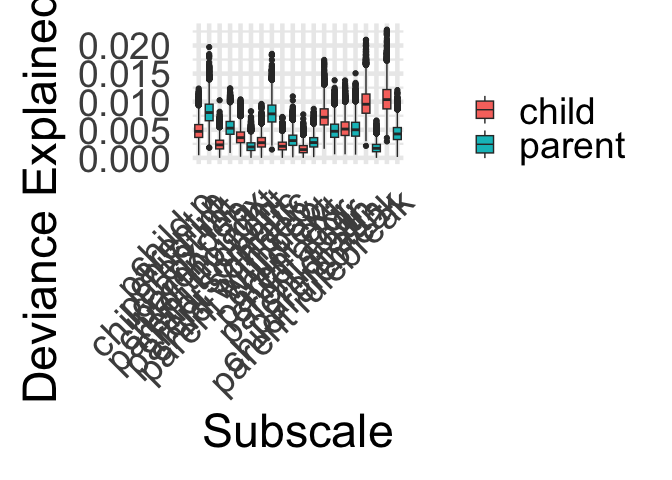
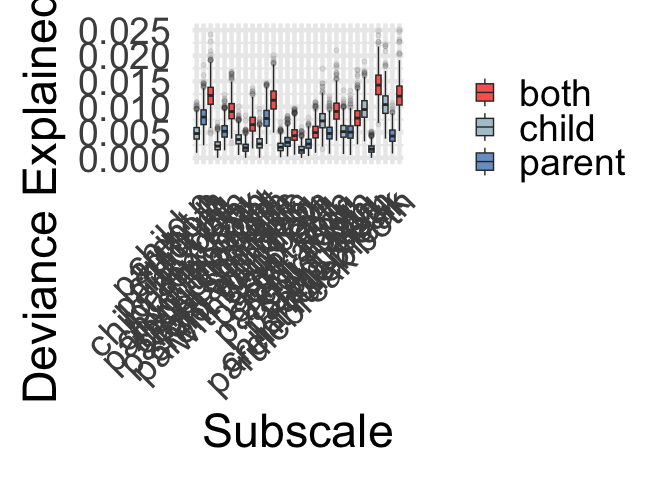
viz updates

diff --git a/Figures/code/Fig2.md b/Figures/code/Fig2.md
@@ -932,14 +932,17 @@ ggplot(df_tidy_merged, aes(x = Subscale, y = MedianValue,fill=MedianIteration,ou
 ``` r
 library(dplyr)
 # supplemental figure 2
-PvC_de=readRDS('~/Desktop/g_p/PvC_gdevExplBoots.rds')
+PvC_de=readRDS('~/Desktop/g_p/PvC_gdevExplBoots1k.rds')
+
+# for 1k version
+PvC_de=PvC_de[1:1000,]
 
 # rename columns for plotting
 new_colnames <- c("child p", "child int.", "child ext.", "child somatic", "child anxdep.", "child thought", "child withdep.", 
                   "child social", "child attn.", "child rulebreak", "child aggr.", "parent p", "parent int.", 
                   "parent ext.", "parent somatic", "parent anx", "parent thought", "parent withdep.", 
-                  "parent attn.", "parent rulebreak", "parent aggr.")
-desiredOrder <- c("child p", "parent p","child int.", "parent int.","child anxdep.","parent anx","child thought", "parent thought", "child somatic","parent somatic",  "child withdep.", "parent withdep.","child ext.", "parent ext.", "child aggr.", "parent aggr.", "child attn.", "parent attn.","child rulebreak","parent rulebreak","child social")
+                  "parent attn.", "parent rulebreak", "parent aggr.","p both","int. both", "ext. both","somatic both","anx both","thought both","withdep both","attn. both","rulebreak both","aggr. both")
+desiredOrder <- c("child p", "parent p","p both","child int.", "parent int.","int. both","child anxdep.","parent anx","anx both","child thought", "parent thought","thought both", "child somatic","parent somatic", "somatic both", "child withdep.", "parent withdep.","withdep both","child ext.", "parent ext.", "ext. both","child aggr.", "parent aggr.", "aggr. both","child attn.", "parent attn.","attn. both","child rulebreak","parent rulebreak","rulebreak both","child social")
 
 # set col names
 colnames(PvC_de)<-new_colnames
@@ -954,7 +957,9 @@ PvC_long=melt(PvC_de)
 # rename for clarity
 colnames(PvC_long)<-c("Subscale","value")
 # grouping variable for color
-PvC_long$Group <- ifelse(grepl("child", PvC_long$Subscale), "child", "parent")
+PvC_long$Group <- ifelse(grepl("child", PvC_long$Subscale), "child",
+                         ifelse(grepl("parent", PvC_long$Subscale), "parent",
+                                ifelse(grepl("both", PvC_long$Subscale), "both", NA)))
 # order as desired
 PvC_long$Subscale <- factor(PvC_long$Subscale, levels = desiredOrder)
 
@@ -963,11 +968,15 @@ PvC_long <- PvC_long %>%
 
 # Create the boxplot
 ggplot(PvC_long, aes(x = Subscale, y = value,fill=Group)) +
-  geom_boxplot() +
+  geom_boxplot(outlier.alpha = .1) +
   labs(x = "Subscale",
        y = "Deviance Explained in Child g",fill = "") +
   theme_minimal(base_size=35)+
-  theme(axis.text.x = element_text(angle = 45, hjust = 1))
+  theme(axis.text.x = element_text(angle = 45, hjust = 1))+scale_fill_manual(values = c("#F9665E", "#AFC7D0", "#799FCB"))
 ```
 
 ![](Fig2_files/figure-gfm/unnamed-chunk-10-1.png)<!-- -->
+
+``` r
+# saved out at 3000x1000
+```
